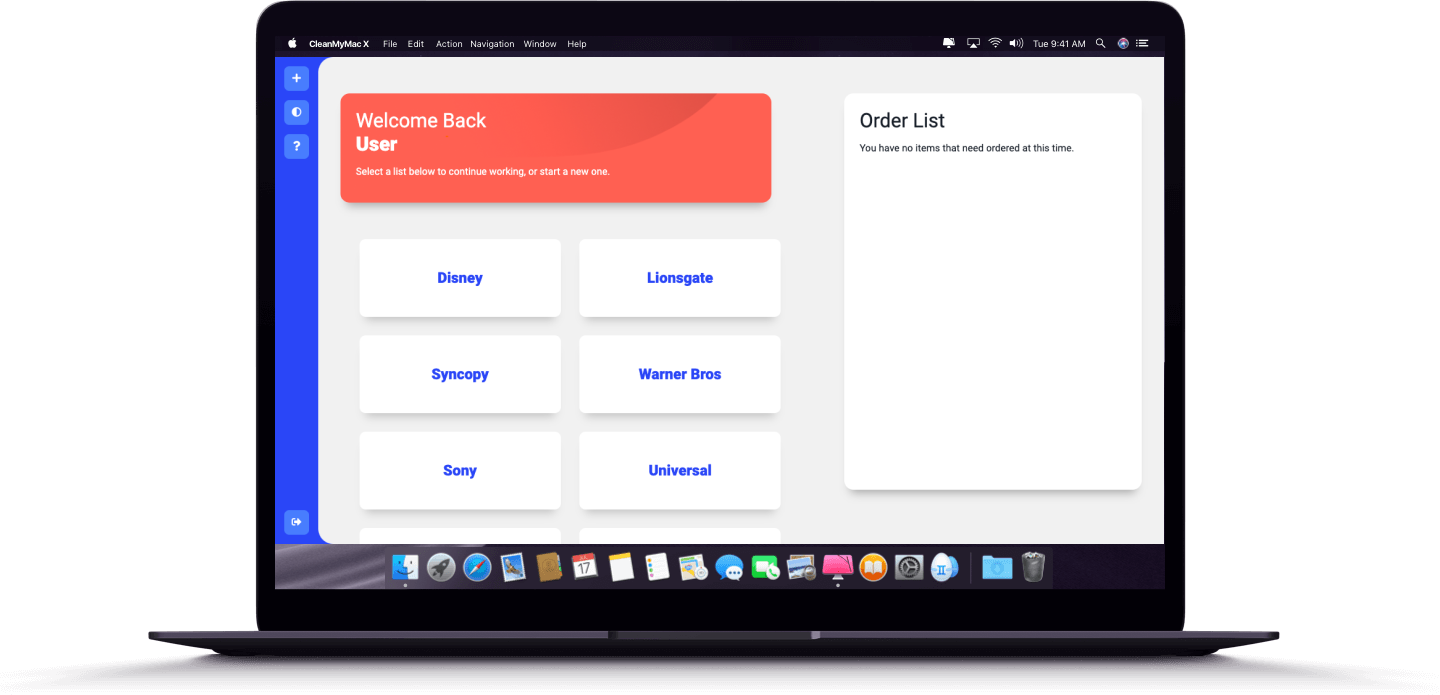
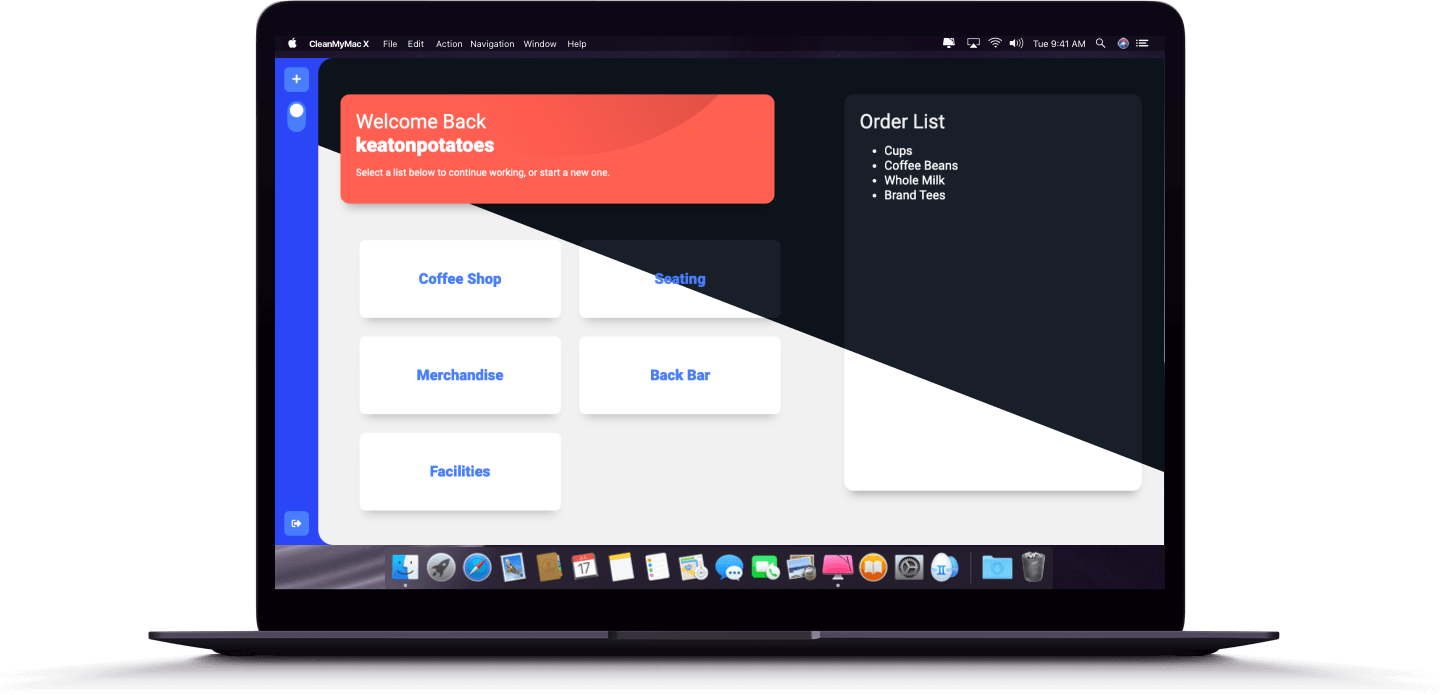
replace landing page image with final version

diff --git a/controllers/item.js b/controllers/item.js
@@ -33,7 +33,7 @@ router.get('/new', (req,res) =>{
 
 // Create route that posts the new info
 router.post('/', (req,res) => {
-    console.log('Beep');
+    // console.log('Beep');
     db.Item.create(req.body, function(err,createdItem) {
         if (err) {
             console.log(err);

diff --git a/README.md b/README.md
@@ -149,12 +149,12 @@ Inventory tool for businesses.
 - [x] - jonathan - user should not see whether username or pass fails
 - [x] - isaiah - fix list button overflow
 - [x] - isaiah - aside section has scroll and link to the list of each item
+- [x] - isaiah - replace landing page image with "final" version
 
 
 
 Stretch
 - [ ] - isaiah - add title on landing page
-- [ ] - isaiah - replace landing page image with "final" version
 
 
 
@@ -169,6 +169,7 @@ Extra Stretch
 - [ ] -  - object embedding
 - [ ] -  - animate modal
 - [ ] -  - information page/modal
+- [ ] - isaiah - replace landing page image with "final" version if info or profile is added
 - [ ] -  - css to apply to items that have a quantity fall below the reorder level
 - [ ] -  - add empty list notification for lists
 - [ ] -  - add empty list notification for items
